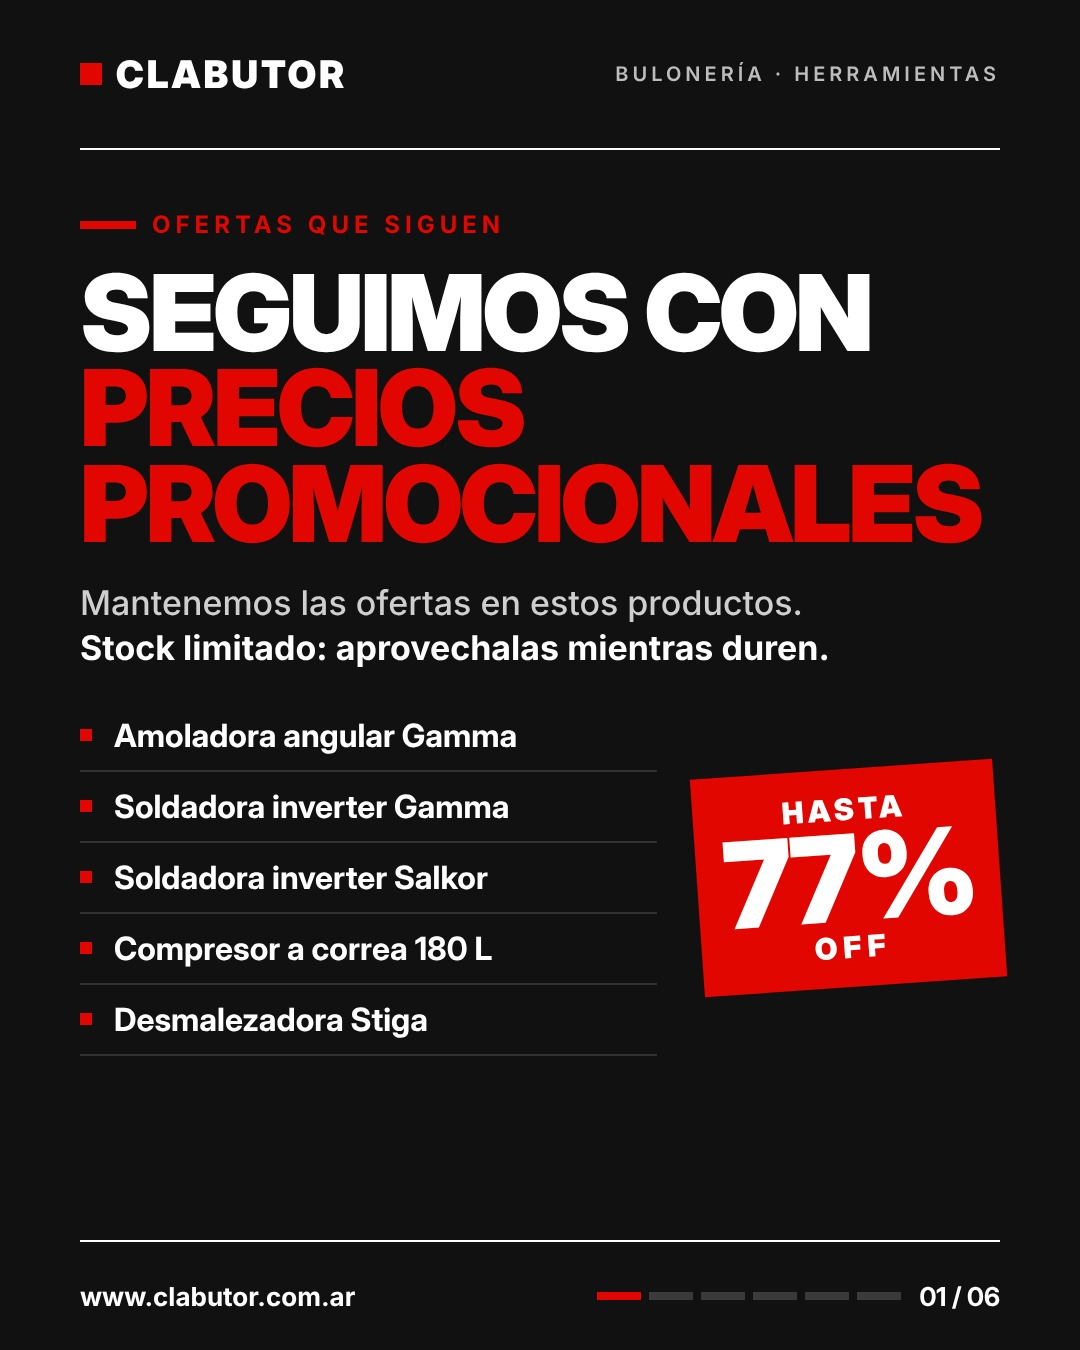
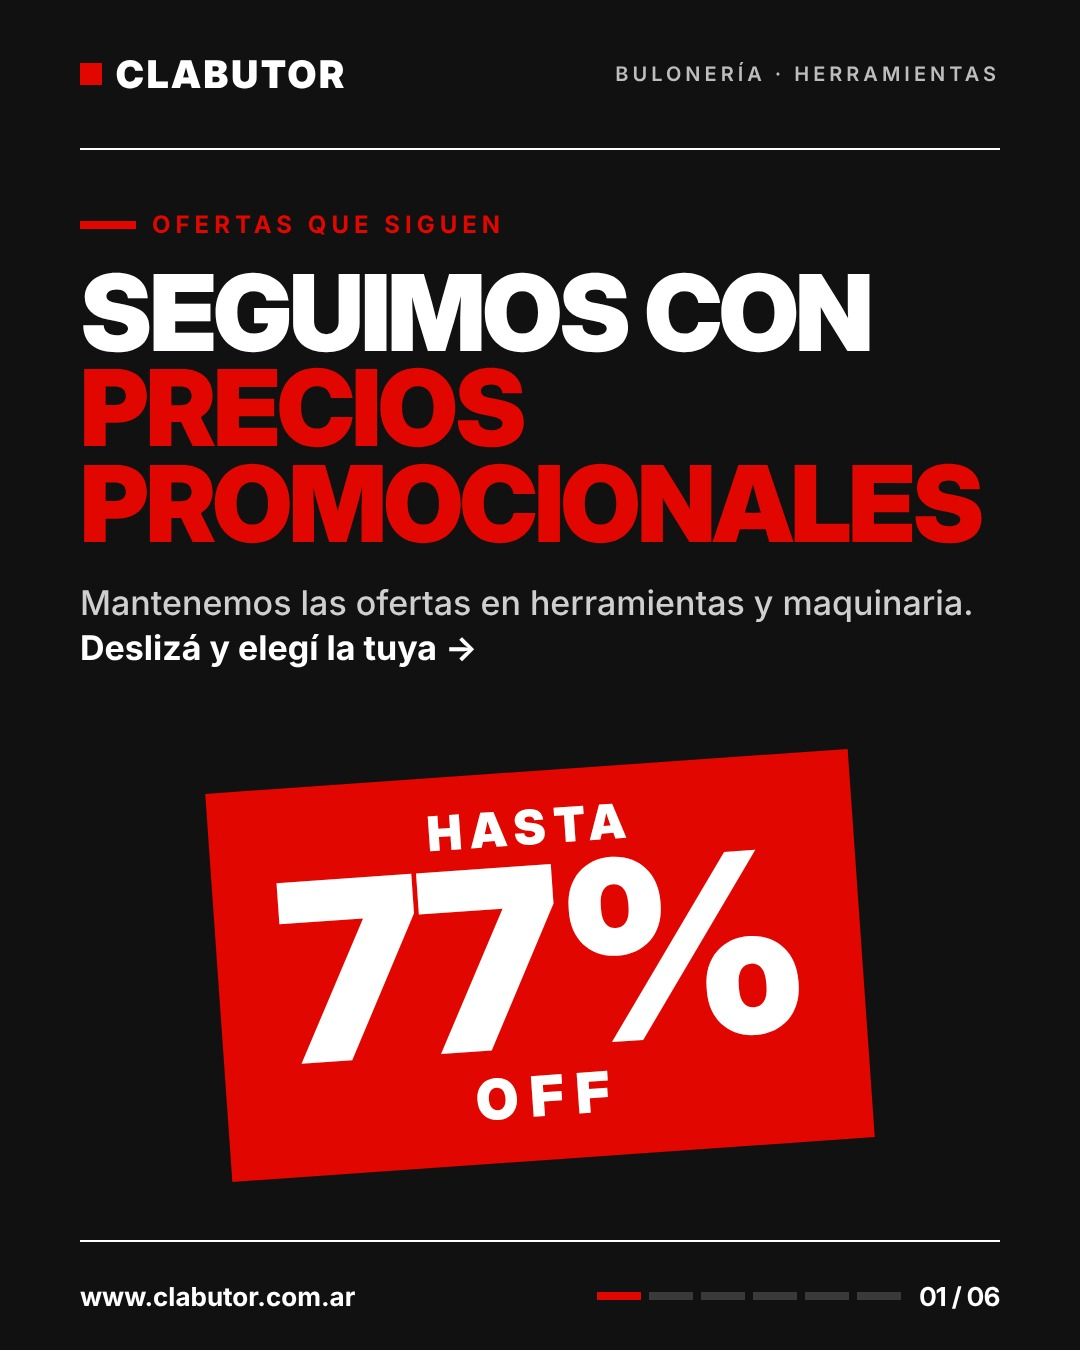
Posteo 4: portada sin lista ni stock limitado, 77% grande
Claude-Session: https://claude.ai/code/session_01XbJLpPx7CCs1ipZpL6GiAh

Changed region(s): [[0.0611, 0.5289, 0.9472, 0.9022], [0.0611, 0.4356, 0.8861, 0.4978]]

diff --git a/disenos/posteos/posteo-04.py b/disenos/posteos/posteo-04.py
@@ -8,7 +8,7 @@ RUBRO = "Bulonería · Herramientas"
 ROJO = "#E10600"
 
 TEXTO = """
-¡Seguimos con precios promocionales! 🔥 Mantenemos las ofertas en herramientas y maquinaria para obra, taller y jardín. Stock limitado: cuando se terminan, vuelven a precio de lista.
+¡Seguimos con precios promocionales! 🔥 Mantenemos las ofertas en herramientas y maquinaria para obra, taller y jardín.
 
 • Amoladora angular en kit 750 W Gamma: $85.500
 • Soldadora inverter ARC130 Gamma: $97.500
@@ -71,23 +71,16 @@ def placa_producto(g, sku, nombre, antes, ahora, titulo, envio):
 
 
 def placas(g):
-    lista = "".join(
-        f'<div style="display:flex;align-items:center;gap:22px;padding:15px 0;border-bottom:2px solid #333">'
-        f'<span style="width:12px;height:12px;background:{ROJO};flex:none"></span>'
-        f'<span style="font-family:Titular;font-weight:700;font-size:32px;white-space:nowrap">{t}</span></div>'
-        for t in ["Amoladora angular Gamma", "Soldadora inverter Gamma", "Soldadora inverter Salkor",
-                  "Compresor a correa 180 L", "Desmalezadora Stiga"])
     maximo = max(round((1 - a / b) * 100) for _, _, b, a, _, _ in PRODUCTOS if b)
     portada = f'''
 <div class="volanta">Ofertas que siguen</div>
 <h1 style="font-size:106px">Seguimos con<br><em>precios</em><br><em>promocionales</em></h1>
-<p class="bajada" style="font-size:34px">Mantenemos las ofertas en estos productos.<br><b>Stock limitado: aprovechalas mientras duren.</b></p>
-<div style="display:flex;align-items:center;gap:40px;margin-top:30px">
-  <div style="flex:1">{lista}</div>
-  <div style="background:{ROJO};color:#fff;padding:22px 26px;transform:rotate(-4deg);text-align:center;flex:none">
-    <div style="font-family:Titular;font-weight:900;font-size:30px;letter-spacing:4px">HASTA</div>
-    <div style="font-family:Titular;font-weight:900;font-size:120px;line-height:.85;letter-spacing:-5px">{maximo}%</div>
-    <div style="font-family:Titular;font-weight:900;font-size:30px;letter-spacing:6px">OFF</div>
+<p class="bajada" style="font-size:34px;white-space:nowrap">Mantenemos las ofertas en herramientas y maquinaria.<br><b>Deslizá y elegí la tuya &rarr;</b></p>
+<div style="position:absolute;left:80px;right:80px;top:740px;bottom:160px;display:flex;align-items:center;justify-content:center">
+  <div style="background:{ROJO};color:#fff;padding:26px 60px 30px;transform:rotate(-4deg);text-align:center">
+    <div style="font-family:Titular;font-weight:900;font-size:48px;letter-spacing:8px">HASTA</div>
+    <div style="font-family:Titular;font-weight:900;font-size:250px;line-height:.8;letter-spacing:-10px">{maximo}%</div>
+    <div style="font-family:Titular;font-weight:900;font-size:56px;letter-spacing:12px;margin-top:6px">OFF</div>
   </div>
 </div>
 '''
